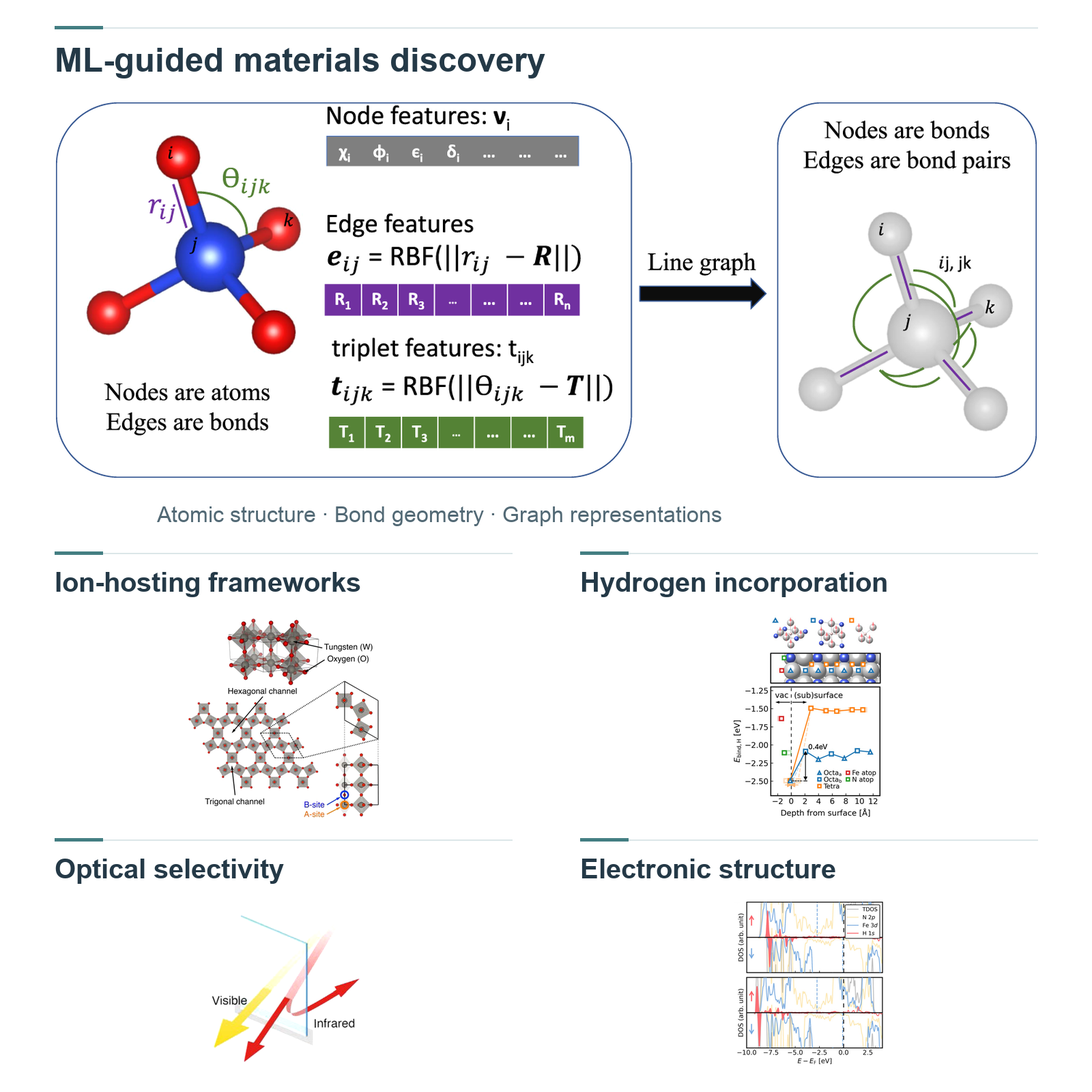
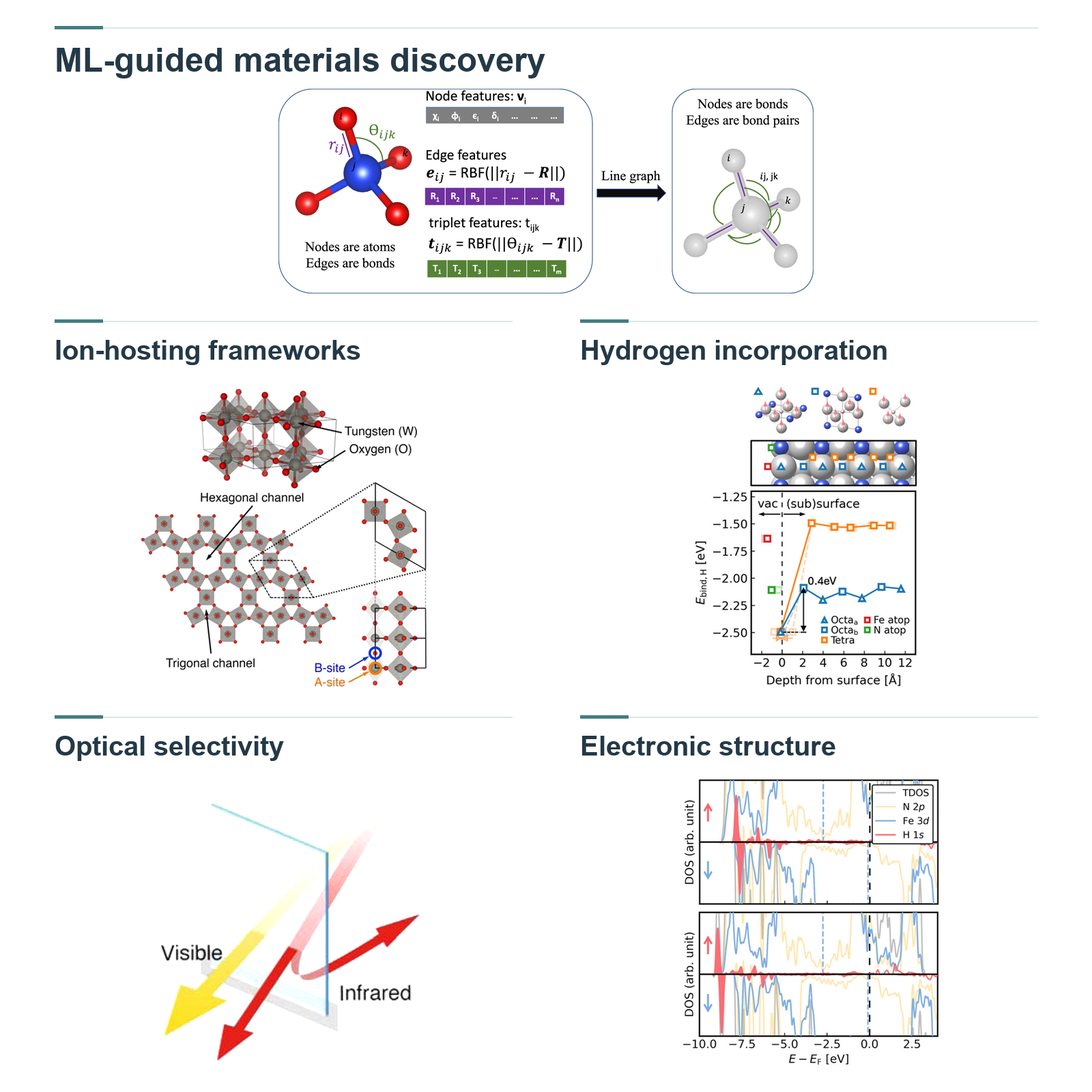
Balance ML and materials panels in research overview

Changed region(s): [[0.0312, 0.0625, 0.9375, 0.9688]]

diff --git a/research.html b/research.html
@@ -1,1 +1,1 @@
-<!doctype html><html lang="en"><head><meta charset="utf-8"><meta name="viewport" content="width=device-width, initial-scale=1"><meta name="description" content="Explore CCML research in machine-learning atomistic simulation, dynamic surfaces and interfaces, catalytic activity and stability, and functional materials design."><meta name="theme-color" content="#1e2737"><title>Research | CCML · Dongguk University</title><link rel="icon" href="assets/mark.svg" type="image/svg+xml"><link rel="stylesheet" href="css/style.css?v=20261020-science"><script src="js/main.js" defer></script></head><body><a class="skip" href="#main">Skip to content</a><header class="header"><div class="wrap nav-wrap"><a class="brand" href="index.html" aria-label="CCML home"><img src="assets/mark.svg" width="36" height="36" alt=""><span>CCML<small>DONGGUK UNIVERSITY</small></span></a><button class="menu-button" aria-label="Open navigation" aria-expanded="false" aria-controls="navigation" hidden>☰</button><nav id="navigation" aria-label="Primary"><a href="index.html">Home</a><a href="people.html">Team</a><a href="research.html" aria-current="page">Research</a><a href="publications.html">Publications</a><a href="news.html">News</a><a href="contact.html">Contact</a><a class="scholar" href="https://scholar.google.com/citations?user=iqaMS78AAAAJ&amp;hl=en">Scholar ↗</a></nav></div></header><main id="main"><section class="page-intro"><div class="wrap"><p class="eyebrow">Four connected directions</p><h1>Research</h1><p class="lead">Machine learning and first-principles theory for atomistic discovery, predictive modeling and materials design.</p></div></section><section class="section wrap research-feature" id="ai"><figure class="research-art"><a href="assets/research/machine-learning-scientific.png?v=20261020-ml" target="_blank" rel="noopener" aria-label="Open full-size research figure"><img src="assets/research/machine-learning-scientific.png?v=20261020-ml" alt="Active-learning feedback between DFT data, ML potentials and structure exploration, with foundation-model fine-tuning and RuO2 structures." width="1600" height="1600" decoding="async"></a><figcaption><a class="text-link" href="assets/research/machine-learning-scientific.png?v=20261020-ml" target="_blank" rel="noopener">View full-size figure ↗</a></figcaption></figure><div class="research-feature-copy"><span class="number">RESEARCH / 01</span><p class="eyebrow">Active learning for atomistic discovery.</p><h2>Machine-Learning Atomistic Simulation</h2><p class="research-korean" lang="ko">머신러닝 원자 시뮬레이션</p><p>Finding a useful atomic structure begins with deciding which part of the energy landscape to explore. We develop and fine-tune machine-learning interatomic potentials from first-principles data, using active learning to identify unfamiliar environments and select new calculations. This feedback between learning and simulation enables broader structure searches and larger-scale atomistic studies.</p><p lang="ko" class="research-summary">제일원리 데이터에 기반한 머신러닝 원자간 포텐셜과 파운데이션 모델의 미세조정을 통해 복잡한 에너지 지형을 탐색합니다. 능동학습으로 새로운 원자 환경을 식별하고 필요한 계산을 선택하며, 학습과 시뮬레이션의 반복을 통해 구조 탐색의 범위와 원자 시뮬레이션의 규모를 확장합니다.</p><p class="keywords">Active learning · Foundation potentials · Fine-tuning · Structure exploration</p><a class="text-link" href="publications.html">Explore our publications →</a></div></section><section class="section wrap research-feature" id="interfaces"><figure class="research-art"><a href="assets/research/dynamic-interfaces-scientific.png?v=20261020-ml" target="_blank" rel="noopener" aria-label="Open full-size research figure"><img src="assets/research/dynamic-interfaces-scientific.png?v=20261020-ml" alt="ML-guided surface search followed by DFT refinement and interface simulation, with original coordination and water-dissociation panels." width="1600" height="1600" loading="lazy" decoding="async"></a><figcaption><a class="text-link" href="assets/research/dynamic-interfaces-scientific.png?v=20261020-ml" target="_blank" rel="noopener">View full-size figure ↗</a></figcaption></figure><div class="research-feature-copy"><span class="number">RESEARCH / 02</span><p class="eyebrow">ML-guided exploration of working interfaces.</p><h2>Dynamic Surfaces &amp; Interfaces</h2><p class="research-korean" lang="ko">동적 표면과 계면</p><p>Working surfaces can differ fundamentally from ideal crystal terminations. We use machine-learning potentials to search for reconstructions, then refine the resulting structures with first-principles calculations and investigate their interfaces through atomistic simulation. This connects a wider search of possible surfaces to the local coordination, adsorption and proton-transfer processes that govern their chemistry.</p><p lang="ko" class="research-summary">머신러닝 포텐셜을 활용하여 가능한 표면 재구성 구조를 폭넓게 탐색하고, 제일원리 계산으로 구조와 안정성을 정밀하게 분석합니다. 이어 계면 시뮬레이션을 통해 배위 환경, 흡착 및 양성자 전달을 조사하여, 반응 조건에서 형성되는 구조와 계면 화학의 관계를 규명합니다.</p><p class="keywords">ML-guided surface search · DFT refinement · Interface dynamics</p><a class="text-link" href="publications.html">Explore our publications →</a></div></section><section class="section wrap research-feature" id="catalysis"><figure class="research-art"><a href="assets/research/catalytic-stability-scientific.png?v=20261020-ml" target="_blank" rel="noopener" aria-label="Open full-size research figure"><img src="assets/research/catalytic-stability-scientific.png?v=20261020-ml" alt="Data-driven hybrid model combining kinetics, SAXS and DFT with uncertainty quantification, alongside original catalyst structures and energetics." width="1600" height="1600" loading="lazy" decoding="async"></a><figcaption><a class="text-link" href="assets/research/catalytic-stability-scientific.png?v=20261020-ml" target="_blank" rel="noopener">View full-size figure ↗</a></figcaption></figure><div class="research-feature-copy"><span class="number">RESEARCH / 03</span><p class="eyebrow">Data-driven prediction of catalyst stability.</p><h2>Catalytic Activity &amp; Stability</h2><p class="research-korean" lang="ko">촉매 활성과 안정성</p><p>A catalyst must sustain activity as its atomic sites and particle sizes evolve. We connect first-principles reaction mechanisms with data-driven models to investigate activity and degradation together. Hybrid modeling combines physical kinetics, atomistic calculations and experimental observations to predict particle ripening and assess uncertainty, while mechanistic studies resolve the active sites and dissolution pathways that shape catalyst lifetime.</p><p lang="ko" class="research-summary">제일원리 반응 메커니즘과 데이터 기반 모델을 연결하여 촉매 활성과 열화를 함께 연구합니다. 물리 기반 속도론, 원자 수준 계산 및 실험 관측을 결합한 혼합모델로 입자 성장을 예측하고 불확실성을 평가하며, 활성점과 용출 경로를 분석하여 촉매 수명을 결정하는 요인을 규명합니다.</p><p class="keywords">Hybrid modeling · Uncertainty quantification · Active sites · Ripening &amp; dissolution</p><a class="text-link" href="publications.html">Explore our publications →</a></div></section><section class="section wrap research-feature" id="materials"><span id="discovery" class="anchor-alias" aria-hidden="true"></span><figure class="research-art"><a href="assets/research/functional-materials-scientific.png?v=20261020-paper" target="_blank" rel="noopener" aria-label="Open full-size research figure"><img src="assets/research/functional-materials-scientific.png?v=20261020-paper" alt="Published ALIGNN illustration of atomic structure, bond geometry and graph representations, above original structure and property panels from CCML publications." width="1600" height="1600" loading="lazy" decoding="async"></a><figcaption><a class="text-link" href="assets/research/functional-materials-scientific.png?v=20261020-paper" target="_blank" rel="noopener">View full-size figure ↗</a><br><span class="caption">ML reference panel: Choudhary &amp; DeCost (2021), CC BY 4.0; resized.</span></figcaption></figure><div class="research-feature-copy"><span class="number">RESEARCH / 04</span><p class="eyebrow">Learning structure–property relationships.</p><h2>Functional Materials Design</h2><p class="research-korean" lang="ko">기능성 소재 설계</p><p>Designing a functional material requires navigating many possible compositions and atomic arrangements. We combine machine-learning property prediction and candidate screening with first-principles calculations to investigate structure–property relationships and identify promising materials. Electronic, spin, ionic and optical responses provide complementary targets for connecting atomic-scale design choices to useful function.</p><p lang="ko" class="research-summary">머신러닝 물성 예측과 후보 소재 탐색을 제일원리 계산과 결합하여 조성·원자 배열과 기능 사이의 관계를 연구합니다. 전자·스핀·이온 수송 및 광학 응답을 대상으로 유망한 소재를 선별하고, 원자 수준의 설계 변수가 물성을 제어하는 원리를 분석합니다.</p><p class="keywords">ML property prediction · Candidate screening · Structure–property relationships</p><a class="text-link" href="publications.html">Explore our publications →</a></div></section><section class="join-band"><div class="wrap join-inner"><div><p class="eyebrow">Join CCML</p><h2>Explore materials.<br>Build new understanding.</h2><p>Interested in computational chemistry, atomistic modeling or AI for materials?</p></div><a class="button" href="join.html">Research with us →</a></div></section></main><footer><div class="wrap footer-grid"><div><a class="footer-brand" href="index.html">CCML</a><p>Computational Chemistry and Materials Lab<br>Dongguk University</p></div><div><h2>Contact</h2><p>Manhae Hall B211<br>30, Pildong-ro 1-gil, Jung-gu<br>Seoul 04620, Republic of Korea</p><a href="mailto:yhyuk@dgu.ac.kr">yhyuk@dgu.ac.kr</a><br><a href="tel:+82222603708">+82-2-2260-3708</a></div><div><h2>Explore</h2><p><a class="" href="join.html">Join the lab →</a><br><a class="" href="https://scholar.google.com/citations?user=iqaMS78AAAAJ&amp;hl=en">Google Scholar ↗</a><br><a class="" href="https://sites.google.com/view/ccml-group/home">Original CCML website ↗</a></p></div></div><div class="wrap footer-bottom"><span>© 2026 CCML · Dongguk University</span><a href="#main">Back to top ↑</a></div></footer></body></html>
+<!doctype html><html lang="en"><head><meta charset="utf-8"><meta name="viewport" content="width=device-width, initial-scale=1"><meta name="description" content="Explore CCML research in machine-learning atomistic simulation, dynamic surfaces and interfaces, catalytic activity and stability, and functional materials design."><meta name="theme-color" content="#1e2737"><title>Research | CCML · Dongguk University</title><link rel="icon" href="assets/mark.svg" type="image/svg+xml"><link rel="stylesheet" href="css/style.css?v=20261020-science"><script src="js/main.js" defer></script></head><body><a class="skip" href="#main">Skip to content</a><header class="header"><div class="wrap nav-wrap"><a class="brand" href="index.html" aria-label="CCML home"><img src="assets/mark.svg" width="36" height="36" alt=""><span>CCML<small>DONGGUK UNIVERSITY</small></span></a><button class="menu-button" aria-label="Open navigation" aria-expanded="false" aria-controls="navigation" hidden>☰</button><nav id="navigation" aria-label="Primary"><a href="index.html">Home</a><a href="people.html">Team</a><a href="research.html" aria-current="page">Research</a><a href="publications.html">Publications</a><a href="news.html">News</a><a href="contact.html">Contact</a><a class="scholar" href="https://scholar.google.com/citations?user=iqaMS78AAAAJ&amp;hl=en">Scholar ↗</a></nav></div></header><main id="main"><section class="page-intro"><div class="wrap"><p class="eyebrow">Four connected directions</p><h1>Research</h1><p class="lead">Machine learning and first-principles theory for atomistic discovery, predictive modeling and materials design.</p></div></section><section class="section wrap research-feature" id="ai"><figure class="research-art"><a href="assets/research/machine-learning-scientific.png?v=20261020-ml" target="_blank" rel="noopener" aria-label="Open full-size research figure"><img src="assets/research/machine-learning-scientific.png?v=20261020-ml" alt="Active-learning feedback between DFT data, ML potentials and structure exploration, with foundation-model fine-tuning and RuO2 structures." width="1600" height="1600" decoding="async"></a><figcaption><a class="text-link" href="assets/research/machine-learning-scientific.png?v=20261020-ml" target="_blank" rel="noopener">View full-size figure ↗</a></figcaption></figure><div class="research-feature-copy"><span class="number">RESEARCH / 01</span><p class="eyebrow">Active learning for atomistic discovery.</p><h2>Machine-Learning Atomistic Simulation</h2><p class="research-korean" lang="ko">머신러닝 원자 시뮬레이션</p><p>Finding a useful atomic structure begins with deciding which part of the energy landscape to explore. We develop and fine-tune machine-learning interatomic potentials from first-principles data, using active learning to identify unfamiliar environments and select new calculations. This feedback between learning and simulation enables broader structure searches and larger-scale atomistic studies.</p><p lang="ko" class="research-summary">제일원리 데이터에 기반한 머신러닝 원자간 포텐셜과 파운데이션 모델의 미세조정을 통해 복잡한 에너지 지형을 탐색합니다. 능동학습으로 새로운 원자 환경을 식별하고 필요한 계산을 선택하며, 학습과 시뮬레이션의 반복을 통해 구조 탐색의 범위와 원자 시뮬레이션의 규모를 확장합니다.</p><p class="keywords">Active learning · Foundation potentials · Fine-tuning · Structure exploration</p><a class="text-link" href="publications.html">Explore our publications →</a></div></section><section class="section wrap research-feature" id="interfaces"><figure class="research-art"><a href="assets/research/dynamic-interfaces-scientific.png?v=20261020-ml" target="_blank" rel="noopener" aria-label="Open full-size research figure"><img src="assets/research/dynamic-interfaces-scientific.png?v=20261020-ml" alt="ML-guided surface search followed by DFT refinement and interface simulation, with original coordination and water-dissociation panels." width="1600" height="1600" loading="lazy" decoding="async"></a><figcaption><a class="text-link" href="assets/research/dynamic-interfaces-scientific.png?v=20261020-ml" target="_blank" rel="noopener">View full-size figure ↗</a></figcaption></figure><div class="research-feature-copy"><span class="number">RESEARCH / 02</span><p class="eyebrow">ML-guided exploration of working interfaces.</p><h2>Dynamic Surfaces &amp; Interfaces</h2><p class="research-korean" lang="ko">동적 표면과 계면</p><p>Working surfaces can differ fundamentally from ideal crystal terminations. We use machine-learning potentials to search for reconstructions, then refine the resulting structures with first-principles calculations and investigate their interfaces through atomistic simulation. This connects a wider search of possible surfaces to the local coordination, adsorption and proton-transfer processes that govern their chemistry.</p><p lang="ko" class="research-summary">머신러닝 포텐셜을 활용하여 가능한 표면 재구성 구조를 폭넓게 탐색하고, 제일원리 계산으로 구조와 안정성을 정밀하게 분석합니다. 이어 계면 시뮬레이션을 통해 배위 환경, 흡착 및 양성자 전달을 조사하여, 반응 조건에서 형성되는 구조와 계면 화학의 관계를 규명합니다.</p><p class="keywords">ML-guided surface search · DFT refinement · Interface dynamics</p><a class="text-link" href="publications.html">Explore our publications →</a></div></section><section class="section wrap research-feature" id="catalysis"><figure class="research-art"><a href="assets/research/catalytic-stability-scientific.png?v=20261020-ml" target="_blank" rel="noopener" aria-label="Open full-size research figure"><img src="assets/research/catalytic-stability-scientific.png?v=20261020-ml" alt="Data-driven hybrid model combining kinetics, SAXS and DFT with uncertainty quantification, alongside original catalyst structures and energetics." width="1600" height="1600" loading="lazy" decoding="async"></a><figcaption><a class="text-link" href="assets/research/catalytic-stability-scientific.png?v=20261020-ml" target="_blank" rel="noopener">View full-size figure ↗</a></figcaption></figure><div class="research-feature-copy"><span class="number">RESEARCH / 03</span><p class="eyebrow">Data-driven prediction of catalyst stability.</p><h2>Catalytic Activity &amp; Stability</h2><p class="research-korean" lang="ko">촉매 활성과 안정성</p><p>A catalyst must sustain activity as its atomic sites and particle sizes evolve. We connect first-principles reaction mechanisms with data-driven models to investigate activity and degradation together. Hybrid modeling combines physical kinetics, atomistic calculations and experimental observations to predict particle ripening and assess uncertainty, while mechanistic studies resolve the active sites and dissolution pathways that shape catalyst lifetime.</p><p lang="ko" class="research-summary">제일원리 반응 메커니즘과 데이터 기반 모델을 연결하여 촉매 활성과 열화를 함께 연구합니다. 물리 기반 속도론, 원자 수준 계산 및 실험 관측을 결합한 혼합모델로 입자 성장을 예측하고 불확실성을 평가하며, 활성점과 용출 경로를 분석하여 촉매 수명을 결정하는 요인을 규명합니다.</p><p class="keywords">Hybrid modeling · Uncertainty quantification · Active sites · Ripening &amp; dissolution</p><a class="text-link" href="publications.html">Explore our publications →</a></div></section><section class="section wrap research-feature" id="materials"><span id="discovery" class="anchor-alias" aria-hidden="true"></span><figure class="research-art"><a href="assets/research/functional-materials-scientific.png?v=20261020-balanced" target="_blank" rel="noopener" aria-label="Open full-size research figure"><img src="assets/research/functional-materials-scientific.png?v=20261020-balanced" alt="Published ALIGNN illustration of atomic structure, bond geometry and graph representations, above original structure and property panels from CCML publications." width="1600" height="1600" loading="lazy" decoding="async"></a><figcaption><a class="text-link" href="assets/research/functional-materials-scientific.png?v=20261020-balanced" target="_blank" rel="noopener">View full-size figure ↗</a><br><span class="caption">ML reference panel: Choudhary &amp; DeCost (2021), CC BY 4.0; resized.</span></figcaption></figure><div class="research-feature-copy"><span class="number">RESEARCH / 04</span><p class="eyebrow">Learning structure–property relationships.</p><h2>Functional Materials Design</h2><p class="research-korean" lang="ko">기능성 소재 설계</p><p>Designing a functional material requires navigating many possible compositions and atomic arrangements. We combine machine-learning property prediction and candidate screening with first-principles calculations to investigate structure–property relationships and identify promising materials. Electronic, spin, ionic and optical responses provide complementary targets for connecting atomic-scale design choices to useful function.</p><p lang="ko" class="research-summary">머신러닝 물성 예측과 후보 소재 탐색을 제일원리 계산과 결합하여 조성·원자 배열과 기능 사이의 관계를 연구합니다. 전자·스핀·이온 수송 및 광학 응답을 대상으로 유망한 소재를 선별하고, 원자 수준의 설계 변수가 물성을 제어하는 원리를 분석합니다.</p><p class="keywords">ML property prediction · Candidate screening · Structure–property relationships</p><a class="text-link" href="publications.html">Explore our publications →</a></div></section><section class="join-band"><div class="wrap join-inner"><div><p class="eyebrow">Join CCML</p><h2>Explore materials.<br>Build new understanding.</h2><p>Interested in computational chemistry, atomistic modeling or AI for materials?</p></div><a class="button" href="join.html">Research with us →</a></div></section></main><footer><div class="wrap footer-grid"><div><a class="footer-brand" href="index.html">CCML</a><p>Computational Chemistry and Materials Lab<br>Dongguk University</p></div><div><h2>Contact</h2><p>Manhae Hall B211<br>30, Pildong-ro 1-gil, Jung-gu<br>Seoul 04620, Republic of Korea</p><a href="mailto:yhyuk@dgu.ac.kr">yhyuk@dgu.ac.kr</a><br><a href="tel:+82222603708">+82-2-2260-3708</a></div><div><h2>Explore</h2><p><a class="" href="join.html">Join the lab →</a><br><a class="" href="https://scholar.google.com/citations?user=iqaMS78AAAAJ&amp;hl=en">Google Scholar ↗</a><br><a class="" href="https://sites.google.com/view/ccml-group/home">Original CCML website ↗</a></p></div></div><div class="wrap footer-bottom"><span>© 2026 CCML · Dongguk University</span><a href="#main">Back to top ↑</a></div></footer></body></html>

diff --git a/index.html b/index.html
@@ -1,1 +1,1 @@
-<!doctype html><html lang="en"><head><meta charset="utf-8"><meta name="viewport" content="width=device-width, initial-scale=1"><meta name="description" content="Computational Chemistry and Materials Lab at Dongguk University. First-principles simulations, machine learning, catalysis and interfaces."><meta name="theme-color" content="#1e2737"><title>Home | CCML · Dongguk University</title><link rel="icon" href="assets/mark.svg" type="image/svg+xml"><link rel="stylesheet" href="css/style.css?v=20261020-science"><script src="js/main.js" defer></script><script src="data/scholar.js" defer></script><script src="js/scholar.js" defer></script></head><body><a class="skip" href="#main">Skip to content</a><header class="header"><div class="wrap nav-wrap"><a class="brand" href="index.html" aria-label="CCML home"><img src="assets/mark.svg" width="36" height="36" alt=""><span>CCML<small>DONGGUK UNIVERSITY</small></span></a><button class="menu-button" aria-label="Open navigation" aria-expanded="false" aria-controls="navigation" hidden>☰</button><nav id="navigation" aria-label="Primary"><a href="index.html" aria-current="page">Home</a><a href="people.html">Team</a><a href="research.html">Research</a><a href="publications.html">Publications</a><a href="news.html">News</a><a href="contact.html">Contact</a><a class="scholar" href="https://scholar.google.com/citations?user=iqaMS78AAAAJ&amp;hl=en">Scholar ↗</a></nav></div></header><main id="main"><section class="hero"><div class="wrap"><p class="eyebrow">Dongguk University · Chemical and Biochemical Engineering</p><h1>Computational Chemistry<br>and Materials Lab<span class="hero-dot">.</span></h1><p class="hero-copy">Learn atomic interactions. Explore structure. Predict function.<br>We combine <strong class="lavender">first-principles theory</strong>, <strong class="gold">machine-learning potentials</strong> and <strong class="mint">data-driven models</strong> to discover atomic structures, predict materials behavior and guide the search for new functionality.</p><p class="directed">Directed by <strong>Prof. Yonghyuk Lee</strong></p><section class="scholar-panel" aria-label="Google Scholar metrics"><p class="eyebrow">Research impact · Yonghyuk Lee</p><div class="scholar-values" data-scholar-values hidden><div><strong data-scholar-metric="citations"></strong><span>Citations</span></div><div><strong data-scholar-metric="h_index"></strong><span>h-index</span></div><div><strong data-scholar-metric="i10_index"></strong><span>i10-index</span></div></div><p class="caption" data-scholar-date></p><p class="caption" data-scholar-pending>For current citation metrics, visit the Google Scholar profile.</p><a class="text-link" href="https://scholar.google.com/citations?user=iqaMS78AAAAJ&amp;hl=en">Google Scholar ↗</a><noscript><p>View the Google Scholar profile for citation metrics.</p></noscript></section><a class="button" href="people.html">Meet the PI →</a></div></section><section class="section wrap"><p class="eyebrow">About the lab</p><h2>Atomic insight.<br class="mobile-only"> Materials with purpose.</h2><div class="about-grid"><div><p>Materials function emerges from atomic structure and its evolution under operating conditions. At CCML, we use machine learning to explore this complexity: learning interatomic interactions, guiding structure searches and predicting properties in close connection with first-principles theory.</p><p>Our research spans structural exploration, dynamic surfaces and interfaces, catalytic activity and stability, and electronic, spin and ionic transport. Through this work, we seek principles that connect atomic-scale mechanisms to the design of functional materials.</p><a class="text-link" href="research.html">Explore our research →</a></div><div class="korean" lang="ko"><p class="eyebrow">한국어</p><p>동국대학교 계산화학·재료 연구실(CCML)은 원자구조와 그 동적 변화가 소재의 반응성 및 수송 특성을 결정하는 원리를 연구합니다. 머신러닝으로 원자간 상호작용을 학습하고 구조 탐색과 물성 예측을 수행하며, 제일원리 계산과 연계하여 실제 작동 환경에서의 구조–물성 관계를 분석합니다.</p><p>주요 연구는 원자구조 탐색, 동적 표면과 계면, 촉매 활성과 안정성, 전자·스핀·이온 수송을 포괄합니다. 이를 통해 원자 수준의 메커니즘을 기능성 소재의 설계 원리로 연결하고자 합니다.</p></div></div></section><section class="section tint"><div class="wrap"><p class="eyebrow">Research at a glance</p><h2>Research field</h2><p class="section-desc">Four connected directions, with machine learning and physical theory linking atomic data to structure, reactivity and materials function.</p><div class="research-grid"><a class="research-card visual-research-card" href="research.html#ai"><img src="assets/research/machine-learning-scientific.png?v=20261020-ml" alt="Active-learning feedback between DFT data, ML potentials and structure exploration, with foundation-model fine-tuning and RuO2 structures." width="1600" height="1600" loading="lazy" decoding="async"><div class="research-card-copy"><span class="number">01</span><h3>Machine-Learning Atomistic Simulation</h3><p class="research-korean" lang="ko">머신러닝 원자 시뮬레이션</p><p>Active learning for atomistic discovery.</p><span class="arrow" aria-hidden="true">↗</span></div></a><a class="research-card visual-research-card" href="research.html#interfaces"><img src="assets/research/dynamic-interfaces-scientific.png?v=20261020-ml" alt="ML-guided surface search followed by DFT refinement and interface simulation, with original coordination and water-dissociation panels." width="1600" height="1600" loading="lazy" decoding="async"><div class="research-card-copy"><span class="number">02</span><h3>Dynamic Surfaces &amp; Interfaces</h3><p class="research-korean" lang="ko">동적 표면과 계면</p><p>ML-guided exploration of working interfaces.</p><span class="arrow" aria-hidden="true">↗</span></div></a><a class="research-card visual-research-card" href="research.html#catalysis"><img src="assets/research/catalytic-stability-scientific.png?v=20261020-ml" alt="Data-driven hybrid model combining kinetics, SAXS and DFT with uncertainty quantification, alongside original catalyst structures and energetics." width="1600" height="1600" loading="lazy" decoding="async"><div class="research-card-copy"><span class="number">03</span><h3>Catalytic Activity &amp; Stability</h3><p class="research-korean" lang="ko">촉매 활성과 안정성</p><p>Data-driven prediction of catalyst stability.</p><span class="arrow" aria-hidden="true">↗</span></div></a><a class="research-card visual-research-card" href="research.html#materials"><img src="assets/research/functional-materials-scientific.png?v=20261020-paper" alt="Published ALIGNN illustration of atomic structure, bond geometry and graph representations, above original structure and property panels from CCML publications." width="1600" height="1600" loading="lazy" decoding="async"><div class="research-card-copy"><span class="number">04</span><h3>Functional Materials Design</h3><p class="research-korean" lang="ko">기능성 소재 설계</p><p>Learning structure–property relationships.</p><p class="caption">ML reference panel: Choudhary &amp; DeCost (2021), CC BY 4.0; resized.</p><span class="arrow" aria-hidden="true">↗</span></div></a></div></div></section><section class="section wrap"><div class="section-heading"><div><p class="eyebrow">Our work</p><h2>Selected publications</h2></div><a class="text-link" href="publications.html">All publications →</a></div><article class="publication" id="pub-27" data-year="2026" data-status="published"><span class="pub-number">27</span><div><p class="journal">ACS Catalysis, 2026, 16, 10398–10410</p><h3><a class="" href="https://doi.org/10.1021/acscatal.6c01516">Ripening of Rh Nanoparticle Catalysts in Reverse Water-Gas Shift via a Data-Driven Model Combining Physics, Theory, and Experiment ↗</a></h3></div></article><article class="publication" id="pub-20" data-year="2025" data-status="published"><span class="pub-number">20</span><div><p class="journal">Angewandte Chemie International Edition, 2025, 64, e202501017</p><h3><a class="" href="https://doi.org/10.1002/anie.202501017">Machine-Learning-Driven Exploration of Surface Reconstructions of Reduced Rutile TiO₂ ↗</a></h3></div></article><article class="publication" id="pub-18" data-year="2025" data-status="published"><span class="pub-number">18</span><div><p class="journal">Journal of the American Chemical Society, 2025, 147, 7799–7808</p><h3><a class="" href="https://doi.org/10.1021/jacs.4c17739">Machine-Learning-Accelerated Surface Exploration of Reconstructed BiVO₄(010) and Characterization of Their Aqueous Interfaces ↗</a></h3></div></article><article class="publication" id="pub-17" data-year="2025" data-status="published"><span class="pub-number">17</span><div><p class="journal">Energy &amp; Environmental Science, 2025, 18, 1214–1231</p><h3><a href="https://doi.org/10.1039/D4EE02839B">Unravelling the Mechanistic Complexity of the Oxygen Evolution Reaction and Ir Dissolution in Highly Dimensional Amorphous Hydrous Iridium Oxides ↗</a></h3></div></article></section><section class="join-band"><div class="wrap join-inner"><div><p class="eyebrow">Join CCML</p><h2>Explore materials.<br>Build new understanding.</h2><p>Interested in computational chemistry, atomistic modeling or AI for materials?</p></div><a class="button" href="join.html">Research with us →</a></div></section></main><footer><div class="wrap footer-grid"><div><a class="footer-brand" href="index.html">CCML</a><p>Computational Chemistry and Materials Lab<br>Dongguk University</p></div><div><h2>Contact</h2><p>Manhae Hall B211<br>30, Pildong-ro 1-gil, Jung-gu<br>Seoul 04620, Republic of Korea</p><a href="mailto:yhyuk@dgu.ac.kr">yhyuk@dgu.ac.kr</a><br><a href="tel:+82222603708">+82-2-2260-3708</a></div><div><h2>Explore</h2><p><a class="" href="join.html">Join the lab →</a><br><a class="" href="https://scholar.google.com/citations?user=iqaMS78AAAAJ&amp;hl=en">Google Scholar ↗</a><br><a class="" href="https://sites.google.com/view/ccml-group/home">Original CCML website ↗</a></p></div></div><div class="wrap footer-bottom"><span>© 2026 CCML · Dongguk University</span><a href="#main">Back to top ↑</a></div></footer></body></html>
+<!doctype html><html lang="en"><head><meta charset="utf-8"><meta name="viewport" content="width=device-width, initial-scale=1"><meta name="description" content="Computational Chemistry and Materials Lab at Dongguk University. First-principles simulations, machine learning, catalysis and interfaces."><meta name="theme-color" content="#1e2737"><title>Home | CCML · Dongguk University</title><link rel="icon" href="assets/mark.svg" type="image/svg+xml"><link rel="stylesheet" href="css/style.css?v=20261020-science"><script src="js/main.js" defer></script><script src="data/scholar.js" defer></script><script src="js/scholar.js" defer></script></head><body><a class="skip" href="#main">Skip to content</a><header class="header"><div class="wrap nav-wrap"><a class="brand" href="index.html" aria-label="CCML home"><img src="assets/mark.svg" width="36" height="36" alt=""><span>CCML<small>DONGGUK UNIVERSITY</small></span></a><button class="menu-button" aria-label="Open navigation" aria-expanded="false" aria-controls="navigation" hidden>☰</button><nav id="navigation" aria-label="Primary"><a href="index.html" aria-current="page">Home</a><a href="people.html">Team</a><a href="research.html">Research</a><a href="publications.html">Publications</a><a href="news.html">News</a><a href="contact.html">Contact</a><a class="scholar" href="https://scholar.google.com/citations?user=iqaMS78AAAAJ&amp;hl=en">Scholar ↗</a></nav></div></header><main id="main"><section class="hero"><div class="wrap"><p class="eyebrow">Dongguk University · Chemical and Biochemical Engineering</p><h1>Computational Chemistry<br>and Materials Lab<span class="hero-dot">.</span></h1><p class="hero-copy">Learn atomic interactions. Explore structure. Predict function.<br>We combine <strong class="lavender">first-principles theory</strong>, <strong class="gold">machine-learning potentials</strong> and <strong class="mint">data-driven models</strong> to discover atomic structures, predict materials behavior and guide the search for new functionality.</p><p class="directed">Directed by <strong>Prof. Yonghyuk Lee</strong></p><section class="scholar-panel" aria-label="Google Scholar metrics"><p class="eyebrow">Research impact · Yonghyuk Lee</p><div class="scholar-values" data-scholar-values hidden><div><strong data-scholar-metric="citations"></strong><span>Citations</span></div><div><strong data-scholar-metric="h_index"></strong><span>h-index</span></div><div><strong data-scholar-metric="i10_index"></strong><span>i10-index</span></div></div><p class="caption" data-scholar-date></p><p class="caption" data-scholar-pending>For current citation metrics, visit the Google Scholar profile.</p><a class="text-link" href="https://scholar.google.com/citations?user=iqaMS78AAAAJ&amp;hl=en">Google Scholar ↗</a><noscript><p>View the Google Scholar profile for citation metrics.</p></noscript></section><a class="button" href="people.html">Meet the PI →</a></div></section><section class="section wrap"><p class="eyebrow">About the lab</p><h2>Atomic insight.<br class="mobile-only"> Materials with purpose.</h2><div class="about-grid"><div><p>Materials function emerges from atomic structure and its evolution under operating conditions. At CCML, we use machine learning to explore this complexity: learning interatomic interactions, guiding structure searches and predicting properties in close connection with first-principles theory.</p><p>Our research spans structural exploration, dynamic surfaces and interfaces, catalytic activity and stability, and electronic, spin and ionic transport. Through this work, we seek principles that connect atomic-scale mechanisms to the design of functional materials.</p><a class="text-link" href="research.html">Explore our research →</a></div><div class="korean" lang="ko"><p class="eyebrow">한국어</p><p>동국대학교 계산화학·재료 연구실(CCML)은 원자구조와 그 동적 변화가 소재의 반응성 및 수송 특성을 결정하는 원리를 연구합니다. 머신러닝으로 원자간 상호작용을 학습하고 구조 탐색과 물성 예측을 수행하며, 제일원리 계산과 연계하여 실제 작동 환경에서의 구조–물성 관계를 분석합니다.</p><p>주요 연구는 원자구조 탐색, 동적 표면과 계면, 촉매 활성과 안정성, 전자·스핀·이온 수송을 포괄합니다. 이를 통해 원자 수준의 메커니즘을 기능성 소재의 설계 원리로 연결하고자 합니다.</p></div></div></section><section class="section tint"><div class="wrap"><p class="eyebrow">Research at a glance</p><h2>Research field</h2><p class="section-desc">Four connected directions, with machine learning and physical theory linking atomic data to structure, reactivity and materials function.</p><div class="research-grid"><a class="research-card visual-research-card" href="research.html#ai"><img src="assets/research/machine-learning-scientific.png?v=20261020-ml" alt="Active-learning feedback between DFT data, ML potentials and structure exploration, with foundation-model fine-tuning and RuO2 structures." width="1600" height="1600" loading="lazy" decoding="async"><div class="research-card-copy"><span class="number">01</span><h3>Machine-Learning Atomistic Simulation</h3><p class="research-korean" lang="ko">머신러닝 원자 시뮬레이션</p><p>Active learning for atomistic discovery.</p><span class="arrow" aria-hidden="true">↗</span></div></a><a class="research-card visual-research-card" href="research.html#interfaces"><img src="assets/research/dynamic-interfaces-scientific.png?v=20261020-ml" alt="ML-guided surface search followed by DFT refinement and interface simulation, with original coordination and water-dissociation panels." width="1600" height="1600" loading="lazy" decoding="async"><div class="research-card-copy"><span class="number">02</span><h3>Dynamic Surfaces &amp; Interfaces</h3><p class="research-korean" lang="ko">동적 표면과 계면</p><p>ML-guided exploration of working interfaces.</p><span class="arrow" aria-hidden="true">↗</span></div></a><a class="research-card visual-research-card" href="research.html#catalysis"><img src="assets/research/catalytic-stability-scientific.png?v=20261020-ml" alt="Data-driven hybrid model combining kinetics, SAXS and DFT with uncertainty quantification, alongside original catalyst structures and energetics." width="1600" height="1600" loading="lazy" decoding="async"><div class="research-card-copy"><span class="number">03</span><h3>Catalytic Activity &amp; Stability</h3><p class="research-korean" lang="ko">촉매 활성과 안정성</p><p>Data-driven prediction of catalyst stability.</p><span class="arrow" aria-hidden="true">↗</span></div></a><a class="research-card visual-research-card" href="research.html#materials"><img src="assets/research/functional-materials-scientific.png?v=20261020-balanced" alt="Published ALIGNN illustration of atomic structure, bond geometry and graph representations, above original structure and property panels from CCML publications." width="1600" height="1600" loading="lazy" decoding="async"><div class="research-card-copy"><span class="number">04</span><h3>Functional Materials Design</h3><p class="research-korean" lang="ko">기능성 소재 설계</p><p>Learning structure–property relationships.</p><p class="caption">ML reference panel: Choudhary &amp; DeCost (2021), CC BY 4.0; resized.</p><span class="arrow" aria-hidden="true">↗</span></div></a></div></div></section><section class="section wrap"><div class="section-heading"><div><p class="eyebrow">Our work</p><h2>Selected publications</h2></div><a class="text-link" href="publications.html">All publications →</a></div><article class="publication" id="pub-27" data-year="2026" data-status="published"><span class="pub-number">27</span><div><p class="journal">ACS Catalysis, 2026, 16, 10398–10410</p><h3><a class="" href="https://doi.org/10.1021/acscatal.6c01516">Ripening of Rh Nanoparticle Catalysts in Reverse Water-Gas Shift via a Data-Driven Model Combining Physics, Theory, and Experiment ↗</a></h3></div></article><article class="publication" id="pub-20" data-year="2025" data-status="published"><span class="pub-number">20</span><div><p class="journal">Angewandte Chemie International Edition, 2025, 64, e202501017</p><h3><a class="" href="https://doi.org/10.1002/anie.202501017">Machine-Learning-Driven Exploration of Surface Reconstructions of Reduced Rutile TiO₂ ↗</a></h3></div></article><article class="publication" id="pub-18" data-year="2025" data-status="published"><span class="pub-number">18</span><div><p class="journal">Journal of the American Chemical Society, 2025, 147, 7799–7808</p><h3><a class="" href="https://doi.org/10.1021/jacs.4c17739">Machine-Learning-Accelerated Surface Exploration of Reconstructed BiVO₄(010) and Characterization of Their Aqueous Interfaces ↗</a></h3></div></article><article class="publication" id="pub-17" data-year="2025" data-status="published"><span class="pub-number">17</span><div><p class="journal">Energy &amp; Environmental Science, 2025, 18, 1214–1231</p><h3><a href="https://doi.org/10.1039/D4EE02839B">Unravelling the Mechanistic Complexity of the Oxygen Evolution Reaction and Ir Dissolution in Highly Dimensional Amorphous Hydrous Iridium Oxides ↗</a></h3></div></article></section><section class="join-band"><div class="wrap join-inner"><div><p class="eyebrow">Join CCML</p><h2>Explore materials.<br>Build new understanding.</h2><p>Interested in computational chemistry, atomistic modeling or AI for materials?</p></div><a class="button" href="join.html">Research with us →</a></div></section></main><footer><div class="wrap footer-grid"><div><a class="footer-brand" href="index.html">CCML</a><p>Computational Chemistry and Materials Lab<br>Dongguk University</p></div><div><h2>Contact</h2><p>Manhae Hall B211<br>30, Pildong-ro 1-gil, Jung-gu<br>Seoul 04620, Republic of Korea</p><a href="mailto:yhyuk@dgu.ac.kr">yhyuk@dgu.ac.kr</a><br><a href="tel:+82222603708">+82-2-2260-3708</a></div><div><h2>Explore</h2><p><a class="" href="join.html">Join the lab →</a><br><a class="" href="https://scholar.google.com/citations?user=iqaMS78AAAAJ&amp;hl=en">Google Scholar ↗</a><br><a class="" href="https://sites.google.com/view/ccml-group/home">Original CCML website ↗</a></p></div></div><div class="wrap footer-bottom"><span>© 2026 CCML · Dongguk University</span><a href="#main">Back to top ↑</a></div></footer></body></html>

diff --git a/RESEARCH-FIGURES.md b/RESEARCH-FIGURES.md
@@ -15,7 +15,7 @@ The Fe₄N DOS panels show hydrogen at surface (upper) and bulk (lower) octahedr
 
 The active-learning workflow is a schematic of selecting new first-principles training data during structure exploration. The interface workflow explicitly separates ML-guided surface exploration from subsequent DFT refinement and interface simulation; the aqueous reaction panels are not relabeled as ML trajectories. The catalyst graphic shows the published data-driven hybrid model without asserting a neural-network architecture.
 
-The PI confirmed on 20 October 2026 that ML property prediction and candidate exploration are current research activities in functional materials design. The external ALIGNN panel illustrates one published way of representing atomic and bond-angle information for property prediction. It does not imply that ALIGNN was developed by CCML, that CCML uses this particular architecture, or that the older WO₃/Fe₄N panels are ML outputs. The source figure is reproduced in full, resized proportionally and placed above the four existing paper panels. No generated content, numerical predictions or performance claims were added.
+The PI confirmed on 20 October 2026 that ML property prediction and candidate exploration are current research activities in functional materials design. The external ALIGNN panel illustrates one published way of representing atomic and bond-angle information for property prediction. It does not imply that ALIGNN was developed by CCML, that CCML uses this particular architecture, or that the older WO₃/Fe₄N panels are ML outputs. The source figure is reproduced in full, resized proportionally and placed above the four existing paper panels. In the balanced layout, its display height is reduced from 550 to 300 px; the two upper result panels grow from 300 to 450 px and the two lower panels from 245 to 430 px. All aspect ratios and source contents are preserved. No generated content, numerical predictions or performance claims were added.
 
 External panel attribution: Kamal Choudhary and Brian DeCost, “Atomistic Line Graph Neural Network for improved materials property predictions,” npj Computational Materials 7, 185 (2021), Fig. 1. Source: https://doi.org/10.1038/s41524-021-00650-1. License: Creative Commons Attribution 4.0 International, https://creativecommons.org/licenses/by/4.0/. Changes: proportional resizing and placement in a composite; original figure content unchanged. Full attribution and license URLs are also embedded in the PNG metadata. The license applies to the ALIGNN panel, not the separately sourced panels below it.
 
